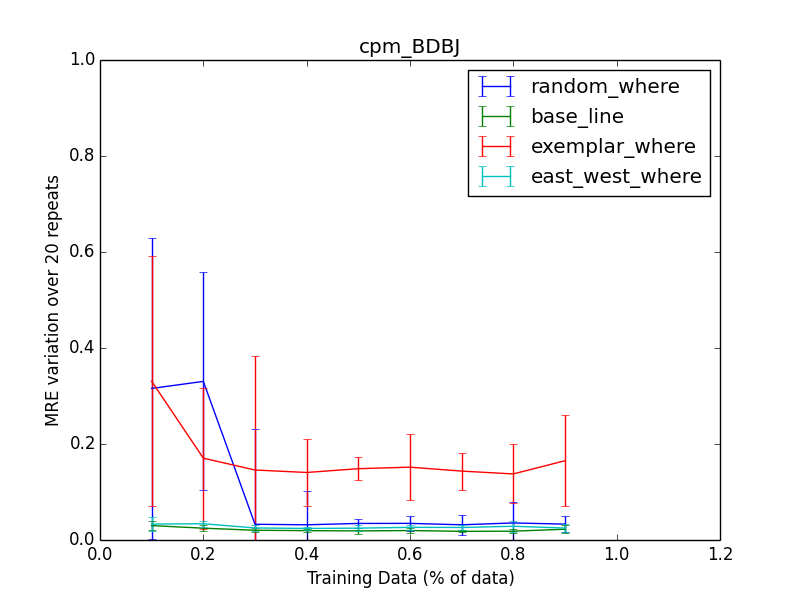
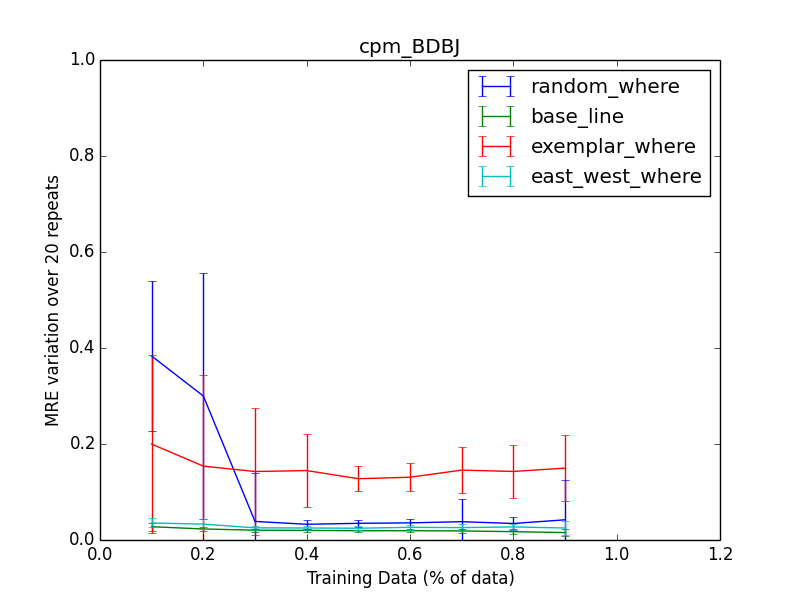
bug fix and faster implementation of baseline

diff --git a/Problems/CPM/cpm_icse2016.py b/Problems/CPM/cpm_icse2016.py
@@ -95,12 +95,14 @@ def random_where(filename):
 
 
 def base_line(filename="./data/Apache_AllMeasurements.csv"):
-    cluster_table = WHEREDataTransformation(filename)
-
+    # cluster_table = WHEREDataTransformation(filename)
+    ret0 = open(filename, "r").readlines()[1:]
+    ret0 = [x.replace("\r", "").replace("\n", "") for x in ret0]
     ret = []
-    for cluster in cluster_table:
-        cluster[-1] = [c[:-1] for c in cluster[-1]]
-        ret.extend(cluster[-1])
+    for r in ret0:
+        print r
+        ret.append([int(float(x)) for x in r.split(",")])
+
     print "Length of cluster table: ", len(ret)
     return ret, len(ret)
 
@@ -225,7 +227,7 @@ class cpm_apache_training_reduction(cpm_reduction):
         from math import log, ceil
         # print training_percent,
 
-        # print "Length of training dataset: ", len(self.training_dependent), len(self.data), (2*log(len(self.data) * training_percent, 2))
+        print "Length of training dataset: ", len(self.training_dependent), len(self.data), (2*log(len(self.data) * training_percent, 2))
         self.CART = tree.DecisionTreeRegressor()
         self.CART = self.CART.fit(self.training_independent, self.training_dependent)
         self.saved_time = (self.find_total_time() - sum(self.training_dependent))/10**4
@@ -279,7 +281,7 @@ class cpm_BDBJ(cpm_reduction):
         global training_percent
         # print training_percent,
         from math import log
-        print "Length of training dataset: ", len(self.training_dependent), len(self.data), (2*log(len(self.data) * training_percent, 2))
+        # print "Length of training dataset: ", len(self.training_dependent), len(self.data), (2*log(len(self.data) * training_percent, 2))
 
         self.CART = tree.DecisionTreeRegressor()
         self.CART = self.CART.fit(self.training_independent, self.training_dependent)
@@ -309,7 +311,7 @@ class cpm_LLVM(cpm_reduction):
         global training_percent
         # print training_percent,
         from math import log
-        print "Length of training dataset: ", len(self.training_dependent), len(self.data), (2*log(len(self.data) * training_percent, 2))
+        # print "Length of training dataset: ", len(self.training_dependent), len(self.data), (2*log(len(self.data) * training_percent, 2))
 
         self.CART = tree.DecisionTreeRegressor()
         self.CART = self.CART.fit(self.training_independent, self.training_dependent)
@@ -337,7 +339,7 @@ class cpm_SQL(cpm_reduction):
         global training_percent
         # print training_percent,
         from math import log
-        print "Length of training dataset: ", len(self.training_dependent), len(self.data), (2*log(len(self.data) * training_percent, 2))
+        # print "Length of training dataset: ", len(self.training_dependent), len(self.data), (2*log(len(self.data) * training_percent, 2))
 
         self.CART = tree.DecisionTreeRegressor()
         self.CART = self.CART.fit(self.training_independent, self.training_dependent)
@@ -367,7 +369,7 @@ class cpm_X264(cpm_reduction):
         global training_percent
         # print training_percent,
         from math import log
-        print "Length of training dataset: ", len(self.training_dependent), len(self.data), (2*log(len(self.data) * training_percent, 2))
+        # print "Length of training dataset: ", len(self.training_dependent), len(self.data), (2*log(len(self.data) * training_percent, 2))
 
         self.CART = tree.DecisionTreeRegressor()
         self.CART = self.CART.fit(self.training_independent, self.training_dependent)
@@ -426,7 +428,7 @@ def draw(data, name):
             temp.append(np.percentile(d[1], 75) - np.percentile(d[1], 25))
             temp.append(d[2])
             temp_string = str(d[0][-1]) + "," + str(np.percentile(d[1], 50)) + "," + str(np.percentile(d[1], 75) -
-                                                    np.percentile(d[1], 25)) + "," + str(d[3][-1]) + "," + str(d[4][-1]//10**4) + "," + str(int(d[-1][-1])) + "," + str(d[2])+ "," +"\n"
+                                                    np.percentile(d[1], 25)) + "," + str(d[3][-1]) + "," + str(d[4][-1]//10**4) + "," + str(int(d[-1][-1])) + "," + str(d[2])+"\n"
             print temp_string
             fdesc.write(temp_string)
             scores.append(temp)
@@ -458,7 +460,7 @@ def draw(data, name):
 
 def test_cpm_apache():
     problems = [cpm_apache_training_reduction]
-    treatments = [random_where, base_line, exemplar_where, east_west_where]
+    treatments = [base_line]#[random_where, base_line, exemplar_where, east_west_where]
     global training_percent, testing_percent
     percents = [10,20,30,40, 50,60,70,80,90]
     scores = []
@@ -489,7 +491,7 @@ def test_BDBJ():
                 training_percent = percent/100
                 testing_percent = 1 - training_percent
                 temp = performance_test(dataset=problem, treatment=treatment)
-                treatscores.append([[x.fraction for x in temp], [x.value for x in temp], treatment.__name__, [x.saved_times for x in temp], [x.total_times for x in temp]])
+                treatscores.append([[x.fraction for x in temp], [x.value for x in temp], treatment.__name__, [x.saved_times for x in temp], [x.total_times for x in temp], [x.evaluations for x in temp]])
             scores.append(treatscores)
     draw(scores, problem.__name__)
 
@@ -507,7 +509,7 @@ def test_BDBC():
                 training_percent = percent/100
                 testing_percent = 1 - training_percent
                 temp = performance_test(dataset=problem, treatment=treatment)
-                treatscores.append([[x.fraction for x in temp], [x.value for x in temp], treatment.__name__, [x.saved_times for x in temp], [x.total_times for x in temp]])
+                treatscores.append([[x.fraction for x in temp], [x.value for x in temp], treatment.__name__, [x.saved_times for x in temp], [x.total_times for x in temp], [x.evaluations for x in temp]])
             scores.append(treatscores)
     draw(scores, problem.__name__)
 
@@ -526,7 +528,7 @@ def test_SQL():
                 training_percent = percent/100
                 testing_percent = 1 - training_percent
                 temp = performance_test(dataset=problem, treatment=treatment)
-                treatscores.append([[x.fraction for x in temp], [x.value for x in temp], treatment.__name__, [x.saved_times for x in temp], [x.total_times for x in temp]])
+                treatscores.append([[x.fraction for x in temp], [x.value for x in temp], treatment.__name__, [x.saved_times for x in temp], [x.total_times for x in temp], [x.evaluations for x in temp]])
             scores.append(treatscores)
     draw(scores, problem.__name__)
 
@@ -545,7 +547,7 @@ def test_x264():
                 training_percent = percent/100
                 testing_percent = 1 - training_percent
                 temp = performance_test(dataset=problem, treatment=treatment)
-                treatscores.append([[x.fraction for x in temp], [x.value for x in temp], treatment.__name__, [x.saved_times for x in temp], [x.total_times for x in temp]])
+                treatscores.append([[x.fraction for x in temp], [x.value for x in temp], treatment.__name__, [x.saved_times for x in temp], [x.total_times for x in temp], [x.evaluations for x in temp]])
             scores.append(treatscores)
     draw(scores, problem.__name__)
 
@@ -564,7 +566,7 @@ def test_LLVM():
                 testing_percent = 1 - training_percent
                 # print "1 training_percent: ", training_percent
                 temp = performance_test(dataset=problem, treatment=treatment)
-                treatscores.append([[x.fraction for x in temp], [x.value for x in temp], treatment.__name__, [x.saved_times for x in temp], [x.total_times for x in temp]])
+                treatscores.append([[x.fraction for x in temp], [x.value for x in temp], treatment.__name__, [x.saved_times for x in temp], [x.total_times for x in temp], [x.evaluations for x in temp]])
             scores.append(treatscores)
     draw(scores, problem.__name__)
 

diff --git a/Problems/CPM/Scripts/time_chart.py b/Problems/CPM/Scripts/time_chart.py
@@ -10,7 +10,7 @@ def get_data(filename):
     lines = open(filename, "r").readlines()
     for i, line in enumerate(lines):
         if i == 0: continue
-        temp = line.split(",")
+        temp = line[:-2].split(",")
         temp[-1] = temp[-1].replace("\n", "")
         if float(temp[0]) not in filter: continue
         saved_percentage = float(temp[-3])/float(temp[-2]) * 100
